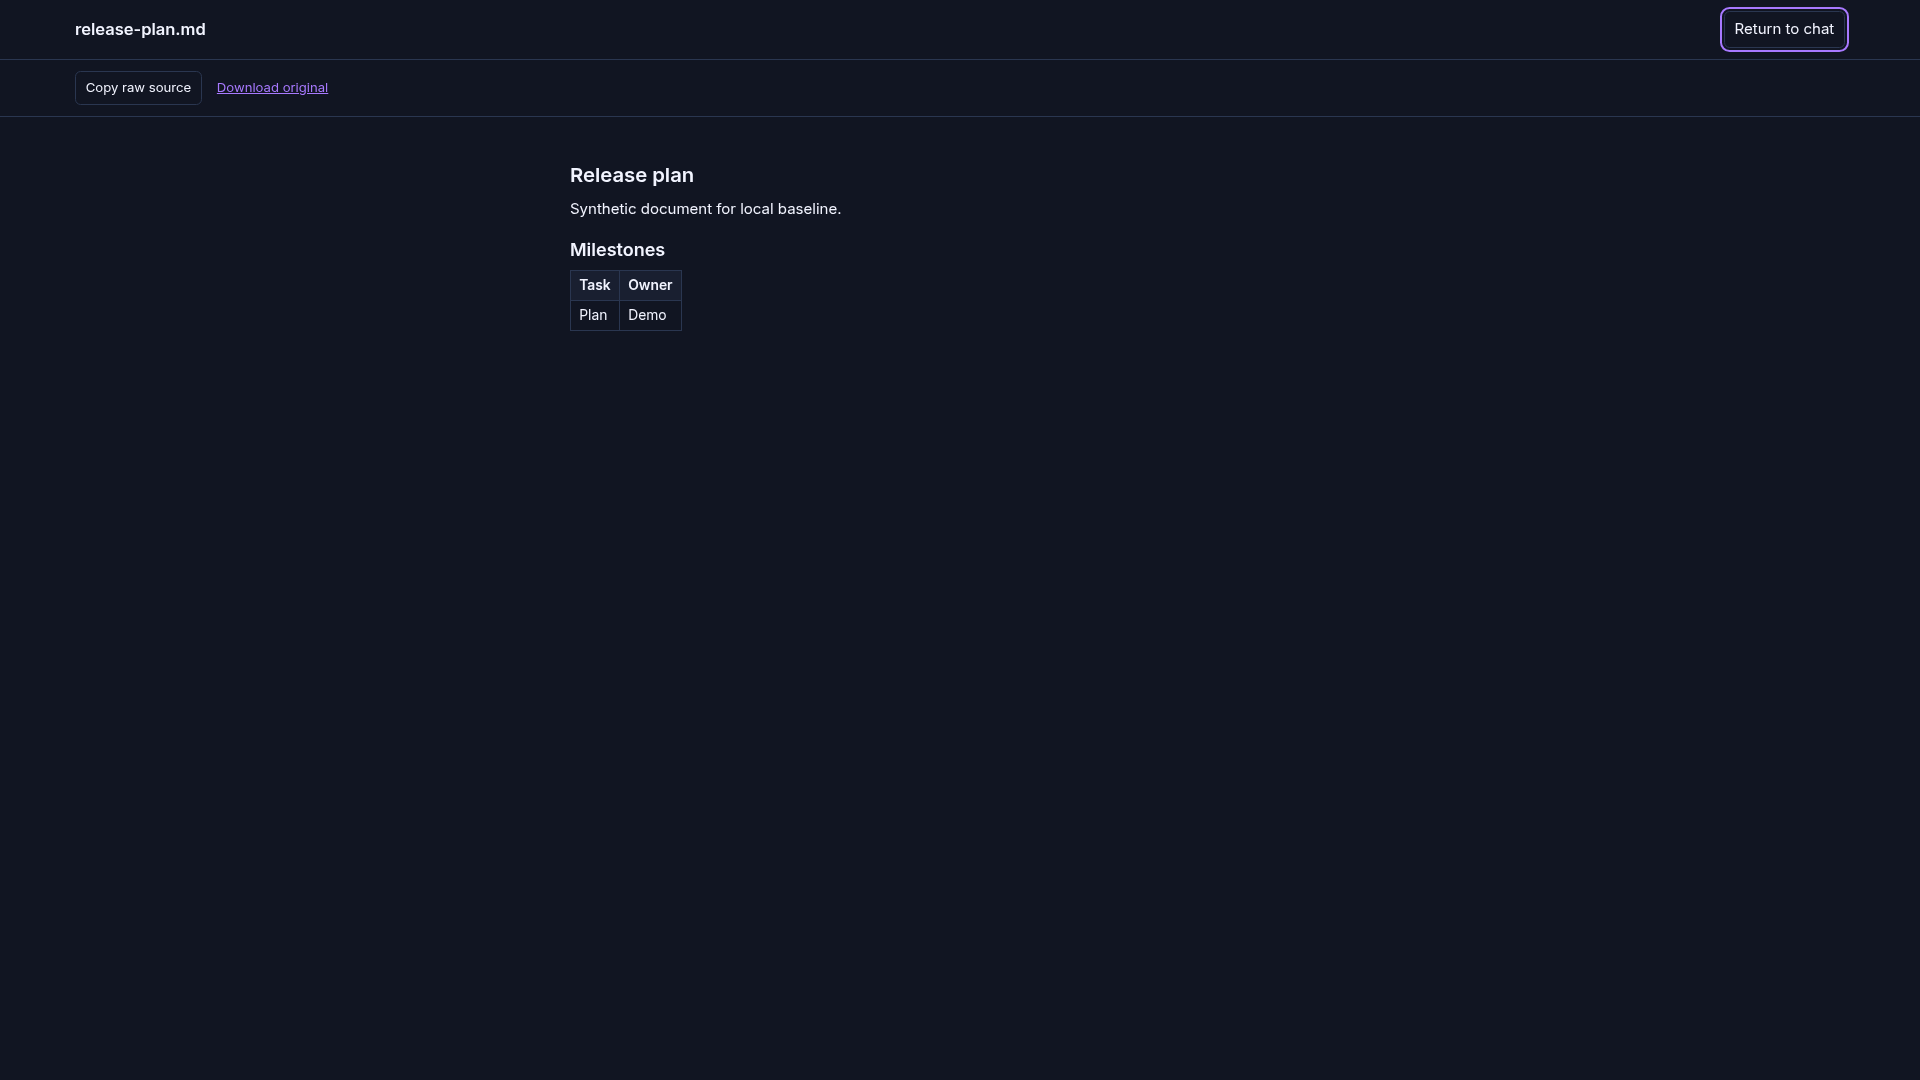
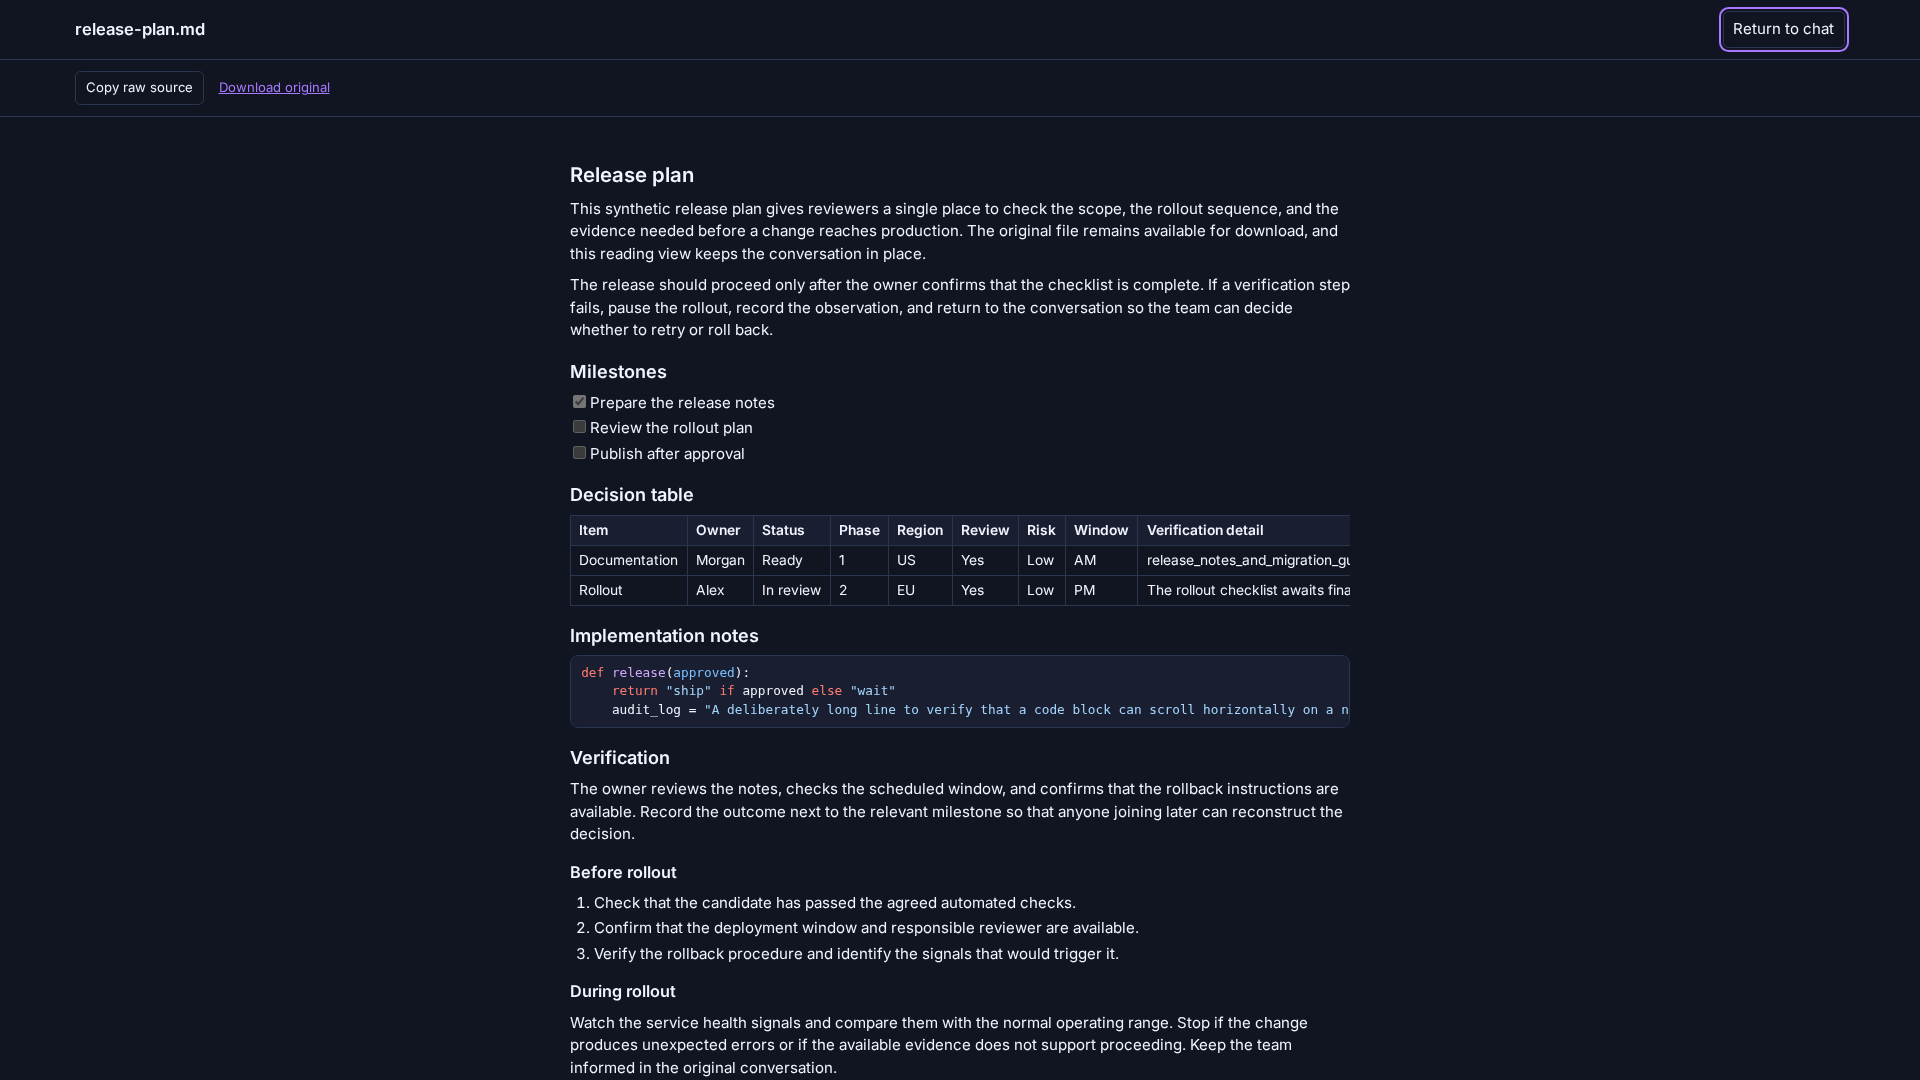
Strengthen Markdown reader evidence and isolate harness

diff --git a/ergonaut/frontend/md-reader-harness/check_app.py b/ergonaut/frontend/md-reader-harness/check_app.py
@@ -1,0 +1,197 @@
+"""Smoke the actual App and Chat with synthetic local API responses.
+
+Run from the repository root: python ergonaut/frontend/md-reader-harness/check_app.py
+Requires frontend dependencies, Python Playwright and Chromium. Optionally set
+ERGONAUT_TEST_CHROMIUM to override the browser path.
+"""
+
+import json
+import os
+import signal
+import subprocess
+import time
+import urllib.request
+from urllib.parse import urlsplit
+
+from check import FRONTEND, PORT, ROOT, SOURCE
+from playwright.sync_api import sync_playwright
+
+ORIGIN = f"http://127.0.0.1:{PORT}"
+OUTPUT = ROOT / "docs" / "md-reader-desktop" / "after"
+VISUAL_SOURCE = SOURCE.split("\n[Project website]")[0]
+SESSION = {
+    "id": "fixture",
+    "bot": "release-helper",
+    "title": "Release planning",
+    "role": "thread",
+    "status": "active",
+    "parent_id": None,
+    "username": "demo",
+    "created_at": "2026-01-01T00:00:00Z",
+    "updated_at": "2026-01-01T00:00:00Z",
+}
+MESSAGES = [
+    {
+        "line": i + 1,
+        "role": "assistant" if i % 2 else "user",
+        "timestamp": None,
+        "blocks": (
+            [
+                {"type": "text", "text": "Please review the attached release plan."},
+                {
+                    "type": "attachment",
+                    "id": "fixture-markdown",
+                    "label": "release-plan.md",
+                    "media_type": "text/markdown",
+                },
+            ]
+            if i == 8
+            else [{"type": "text", "text": f"Conversation message {i + 1}: discussing the release plan."}]
+        ),
+    }
+    for i in range(30)
+]
+
+
+def main():
+    OUTPUT.mkdir(parents=True, exist_ok=True)
+    server = subprocess.Popen(
+        ["npm", "run", "dev", "--", "--host", "127.0.0.1", "--port", str(PORT), "--strictPort"],
+        cwd=FRONTEND,
+        stdout=subprocess.DEVNULL,
+        stderr=subprocess.DEVNULL,
+        start_new_session=True,
+    )
+    try:
+        for _ in range(100):
+            if server.poll() is not None:
+                raise RuntimeError("Vite exited before becoming ready")
+            try:
+                with urllib.request.urlopen(ORIGIN, timeout=1):
+                    break
+            except OSError:
+                time.sleep(0.1)
+        else:
+            raise RuntimeError("Vite did not start")
+        with sync_playwright() as p:
+            browser = p.chromium.launch(
+                headless=True, executable_path=os.environ.get("ERGONAUT_TEST_CHROMIUM"), args=["--no-sandbox"]
+            )
+            try:
+                for name, width, height in [("desktop", 1440, 900), ("wide", 1920, 1080), ("mobile", 390, 844)]:
+                    context = browser.new_context(viewport={"width": width, "height": height}, device_scale_factor=1)
+                    page = context.new_page()
+                    unexpected = []
+                    errors = []
+                    page.on("pageerror", lambda error: errors.append(str(error)))
+                    responses = {
+                        "/api/auth/csrf": {"csrftoken": "fixture"},
+                        "/api/auth/me": {
+                            "id": "demo",
+                            "username": "demo",
+                            "email": "",
+                            "first_name": "",
+                            "last_name": "",
+                        },
+                        "/api/bots": [],
+                        "/api/sessions": [SESSION],
+                        "/api/pins": {},
+                        "/api/bot-errors": [],
+                        "/api/workers": [],
+                        "/api/realtime-voice/config": {"enabled": False},
+                        "/api/sessions/fixture": {
+                            "session": SESSION,
+                            "messages": MESSAGES,
+                            "calls": [],
+                            "debug_shortcut": False,
+                        },
+                        "/api/sessions/fixture/attachments": [],
+                        "/api/sessions/fixture/pins": [],
+                        "/api/sessions/fixture/voice": {"enabled": False, "max_duration": 0},
+                        "/api/sessions/fixture/usage": {
+                            "until": "",
+                            "hours": [],
+                            "thread_tokens": 0,
+                            "agent_tokens": 0,
+                        },
+                        "/api/bots/release-helper/models": {"models": [], "default": "", "default_engine_type": ""},
+                        "/api/version": {"available": False, "latest": None},
+                        "/api/routing": {"capacity": {"accounts": []}, "providers": [], "tiers": [], "agents": []},
+                    }
+
+                    def route_request(route):
+                        path = urlsplit(route.request.url).path
+                        if path == "/api/attachments/fixture-markdown/download":
+                            route.fulfill(status=200, body=VISUAL_SOURCE, content_type="text/markdown; charset=utf-8")
+                        elif path in responses:
+                            route.fulfill(status=200, body=json.dumps(responses[path]), content_type="application/json")
+                        elif path.endswith("/events"):
+                            route.abort()
+                        elif path.startswith("/api/") or not route.request.url.startswith(ORIGIN + "/"):
+                            unexpected.append(route.request.url)
+                            route.abort()
+                        else:
+                            route.continue_()
+
+                    page.route("**/*", route_request)
+                    page.goto(ORIGIN + "/", wait_until="networkidle")
+                    page.goto(ORIGIN + "/s/fixture?fixture=1#host-fragment", wait_until="networkidle")
+                    opener = page.get_by_role("button", name="Read release-plan.md")
+                    opener.wait_for()
+                    composer = page.get_by_role("textbox", name="Message")
+                    composer.fill("Unsent draft: verify the release.")
+                    opener.scroll_into_view_if_needed()
+                    scroll = page.locator(".chat-transcript")
+                    before = scroll.evaluate("el => el.scrollTop")
+                    opener.focus()
+                    page.keyboard.press("Enter")
+                    dialog = page.get_by_role("dialog", name="release-plan.md")
+                    dialog.get_by_role("heading", name="Release plan", exact=True).wait_for()
+                    geometry = dialog.evaluate("""el => {
+                      const rect = el.getBoundingClientRect(); const prose = el.querySelector('.markdown').getBoundingClientRect();
+                      const content = el.querySelector('.md-reader-content'); const style = getComputedStyle(content);
+                      return {x: rect.x, y: rect.y, width: rect.width, height: rect.height, proseWidth: prose.width,
+                        proseLeft: prose.left, padding: style.padding, radius: getComputedStyle(el).borderRadius,
+                        scrollable: content.scrollHeight > content.clientHeight};
+                    }""")
+                    if width > 600:
+                        assert (geometry["x"], geometry["y"], geometry["width"], geometry["height"]) == (
+                            0,
+                            0,
+                            width,
+                            height,
+                        ), geometry
+                        assert (
+                            geometry["proseWidth"] <= 832
+                            and abs(geometry["proseLeft"] - (width - geometry["proseWidth"]) / 2) < 1
+                        ), geometry
+                    else:
+                        assert geometry["width"] < width and geometry["height"] < height, geometry
+                    assert geometry["scrollable"], geometry
+                    page.screenshot(path=str(OUTPUT / f"{name}.png"))
+                    assert dialog.locator("pre code").count() == 1
+                    assert dialog.locator(".md-reader-content").evaluate(
+                        "el => { el.scrollTop = el.scrollHeight; return el.scrollTop > 0 }"
+                    )
+                    page.screenshot(path=str(OUTPUT / f"{name}-scrolled.png"))
+                    page.keyboard.press("Escape")
+                    dialog.wait_for(state="detached")
+                    assert opener.evaluate("el => el === document.activeElement")
+                    assert scroll.evaluate("el => el.scrollTop") == before
+                    assert composer.input_value() == "Unsent draft: verify the release."
+                    assert page.url.endswith("/s/fixture?fixture=1#host-fragment")
+                    assert not unexpected, unexpected
+                    assert not errors, errors
+                    print(
+                        f"{name}: actual App+Chat, geometry={geometry}; scrolling, Escape, focus, draft and host URL passed"
+                    )
+                    context.close()
+            finally:
+                browser.close()
+    finally:
+        os.killpg(server.pid, signal.SIGTERM)
+        server.wait(timeout=10)
+
+
+if __name__ == "__main__":
+    main()

diff --git a/ergonaut/frontend/md-reader-harness/check.py b/ergonaut/frontend/md-reader-harness/check.py
@@ -6,6 +6,8 @@ ERGONAUT_TEST_CHROMIUM to a Chromium executable. Uses only local synthetic data.
 """
 
 import os
+import signal
+import socket
 import subprocess
 import time
 import urllib.request
@@ -15,12 +17,20 @@ from playwright.sync_api import sync_playwright
 
 ROOT = Path(__file__).resolve().parents[3]
 FRONTEND = ROOT / "ergonaut" / "frontend"
-OUTPUT = ROOT / "docs" / "md-reader" / "after"
-PORT = 41739
+OUTPUT = Path(os.environ.get("MD_READER_OUTPUT", ROOT / "docs" / "md-reader" / "after"))
+with socket.socket() as sock:
+    sock.bind(("127.0.0.1", 0))
+    PORT = sock.getsockname()[1]
 ORIGIN = f"http://127.0.0.1:{PORT}"
 SOURCE = """# Release plan
 
-A synthetic document for a focused reading experience.
+This synthetic release plan gives reviewers a single place to check the scope, the rollout
+sequence, and the evidence needed before a change reaches production. The original file
+remains available for download, and this reading view keeps the conversation in place.
+
+The release should proceed only after the owner confirms that the checklist is complete.
+If a verification step fails, pause the rollout, record the observation, and return to
+the conversation so the team can decide whether to retry or roll back.
 
 ## Milestones
 
@@ -43,6 +53,30 @@ def release(approved):
     audit_log = "A deliberately long line to verify that a code block can scroll horizontally on a narrow mobile screen"
 ```
 
+## Verification
+
+The owner reviews the notes, checks the scheduled window, and confirms that the
+rollback instructions are available. Record the outcome next to the relevant
+milestone so that anyone joining later can reconstruct the decision.
+
+### Before rollout
+
+1. Check that the candidate has passed the agreed automated checks.
+2. Confirm that the deployment window and responsible reviewer are available.
+3. Verify the rollback procedure and identify the signals that would trigger it.
+
+### During rollout
+
+Watch the service health signals and compare them with the normal operating range.
+Stop if the change produces unexpected errors or if the available evidence does
+not support proceeding. Keep the team informed in the original conversation.
+
+### After rollout
+
+Review the final health checks, link the evidence, and note any follow-up work.
+The release is complete only when the owner has recorded the outcome and the
+team has confirmed that no additional intervention is needed.
+
 [Project website](https://example.org/release) · [unsafe](javascript:alert(1))
 
 ![Remote image](https://remote-image.example.invalid/track.png)
@@ -62,6 +96,7 @@ def main():
         cwd=FRONTEND,
         stdout=subprocess.DEVNULL,
         stderr=subprocess.DEVNULL,
+        start_new_session=True,
     )
     try:
         for _ in range(100):
@@ -178,7 +213,7 @@ def main():
             finally:
                 browser.close()
     finally:
-        server.terminate()
+        os.killpg(server.pid, signal.SIGTERM)
         server.wait(timeout=10)
 
 

diff --git a/ergonaut/frontend/md-reader-harness/check_chat.py b/ergonaut/frontend/md-reader-harness/check_chat.py
@@ -6,14 +6,14 @@ ERGONAUT_TEST_CHROMIUM. No backend or external services are used.
 """
 
 import os
+import signal
 import subprocess
 import time
 import urllib.request
 
-from check import FRONTEND, OUTPUT, SOURCE
+from check import FRONTEND, OUTPUT, PORT, SOURCE
 from playwright.sync_api import sync_playwright
 
-PORT = 41740
 ORIGIN = f"http://127.0.0.1:{PORT}"
 SOURCE += f"""
 
@@ -37,6 +37,7 @@ def main():
         cwd=FRONTEND,
         stdout=subprocess.DEVNULL,
         stderr=subprocess.DEVNULL,
+        start_new_session=True,
     )
     try:
         for _ in range(100):
@@ -152,7 +153,7 @@ def main():
             finally:
                 browser.close()
     finally:
-        server.terminate()
+        os.killpg(server.pid, signal.SIGTERM)
         server.wait(timeout=10)
 
 

diff --git a/docs/md-reader-desktop/README.md b/docs/md-reader-desktop/README.md
@@ -2,12 +2,21 @@
 
 The coordinator verified the live **before** in a production conversation: the existing reader was flush to the top-left, occupied roughly 42% of the viewport width and 78% of its height, and dimmed chat. No production change was made or candidate tested there.
 
-The images here use synthetic session and attachment data in the actual local App shell and Chat, not authenticated end-to-end traffic. The [desktop before](before/desktop.png) and [mobile before](before/mobile.png) use 1440×900 and 390×844 CSS-pixel viewports. The candidate after is shown at [1440×900](after/desktop.png), [1920×1080](after/wide.png), and [390×844](after/mobile.png). On desktop the dialog covers the viewport, the document has its own scroll area and centered line length, and the header retains its title, return and actions. The same native dialog, mobile dimensions and mobile rules remain in place. At 390×844 the after dialog measured 375×829 CSS pixels with 15px content padding and 11.25px corners, matching the visible before geometry; the after image shows the keyboard focus ring on Close.
+The images here use synthetic session and attachment data in the actual local App shell and Chat, not authenticated end-to-end traffic. The [desktop before](before/desktop.png) and [mobile before](before/mobile.png) use 1440×900 and 390×844 CSS-pixel viewports. The candidate after is shown at [1440×900](after/desktop.png), [1920×1080](after/wide.png), and [390×844](after/mobile.png), with [desktop](after/desktop-scrolled.png) and [mobile](after/mobile-scrolled.png) scrolled views. The longer fixture contains headings, prose, lists, a table and code. On desktop the dialog covers the viewport, the document has its own scroll area and centered line length, and the header retains its title, return and actions. The same native dialog, mobile dimensions and mobile rules remain in place. At 390×844 the after dialog measured 375×829 CSS pixels with 15px content padding and 11.25px corners, matching the visible before geometry; the after image shows the keyboard focus ring on Close. Unlike the short before fixture, the long after fixture requires vertical scrolling.
 
 ## Verification and limits
 
-- The Chat browser harness exercises desktop, wide and mobile geometry, duplicate fragments, unsupported and external links, Escape, repeated open/close, chat update, scroll and draft preservation. It uses synthetic data and mounts Chat without the App shell.
-- The separate local App-shell smoke used synthetic API responses; at 1440×900 the dialog measured 1440×900 and centered Markdown measured 780px. Escape restored opener focus, chat scroll and unsent draft. A synthetic oversized response with a 500,001-byte Content-Length aborted its fetch signal and retained the download link.
-- The reader browser harness checks clipboard text, download URL, image and script blocking, focus, error handling, and horizontal table/code scrolling. Component tests cover delayed oversized-response cancellation and stream limits; frontend suite and build also passed.
+- `MD_READER_OUTPUT=/tmp/md-reader-chat-check python ergonaut/frontend/md-reader-harness/check_chat.py` passed at desktop, wide and mobile sizes against isolated local Vite servers: duplicate fragments, unsupported and external links, Escape, repeated open/close, chat update, scroll and draft preservation. It mounts Chat without the App shell.
+- `python ergonaut/frontend/md-reader-harness/check_app.py` passed against the actual local App shell and Chat with synthetic API responses at 1440×900, 1920×1080 and 390×844. At desktop sizes the reader filled the viewport and the Markdown column measured 780px; Escape restored opener focus, chat scroll, unsent draft and the unchanged host query and fragment. The harness captures top and scrolled views. The earlier local App-shell smoke also checked a synthetic oversized response with a 500,001-byte Content-Length, which aborted its fetch signal and retained the download link.
+- `MD_READER_OUTPUT=/tmp/md-reader-check python ergonaut/frontend/md-reader-harness/check.py` passed desktop and mobile clipboard text, download URL, image and script blocking, focus, error handling, and horizontal table/code scrolling. `bun test src/components/MarkdownAttachment.test.tsx src/components/Markdown.test.tsx` passed 11 tests; `bun test src` passed 357 tests with React `act` warnings, and `npm run build` passed with a large-chunk warning.
+- The harnesses use a free local port and terminate their own Vite process group. A previous fixed-port Chat run accidentally reached an already-running baseline Vite server; that failed geometry check was discarded and all three harnesses were rerun using isolated servers.
 - Browser Back is **not** intercepted: the local App-shell smoke navigated from the open reader to the preceding route and unmounted chat. Close/Return to chat or Escape preserves the mounted chat. A component-local raw History API entry would bypass React Router's navigation bookkeeping and can leave stale entries on forward, route changes, or unmount; safely changing that contract requires coordinated router-level handling, outside this reader-only change. No navigation trap was introduced.
 - The local browser uses Chromium viewport emulation. It does not prove actual device behavior, screen-reader behavior, authenticated download or permissions, or a deployed after state. Existing attachment security and server access-control behavior were not changed.
+
+## Proposed Back integration (not implemented)
+
+The reader currently belongs to each attachment component. A local history marker keyed to a mount can go stale when Chat unmounts, while one keyed only by attachment ID cannot distinguish repeated copies of an attachment. Use a single owner inside `BrowserRouter` at the App level, with the attachment requesting a reader by ID, label and opener; leave Chat and voice ownership unchanged. The owner would render one portal and use React Router location/navigation for a desktop-only history entry, preserving the pathname, search, hash and compatible existing state. It must handle incompatible or conflicting location state without losing it.
+
+For an entry created by the owner, Back or Escape/Return would dismiss without unmounting Chat; Forward would reopen the same reader, and reopening after Back would replace the Forward branch through ordinary router navigation. A route change would dismiss the current portal; returning to a marked history entry needs an explicit restoration policy rather than a stale component marker. Reload/direct-entry handling, safe close without assuming an owned predecessor, and focus fallback when the original opener is gone require design and regression coverage before implementation. Browser history cannot delete arbitrary older entries.
+
+Verify with a genuine BrowserRouter stack: prior route → chat with existing state/query/hash → reader, Back/Forward and repeated close/reopen; duplicate attachment cards; route navigation while open and return; reload/direct entry; existing fragment links, draft, transcript scroll and focus; mobile without added entries; and voice navigation. No such routing change or history regression assertion is included in this follow-up.
